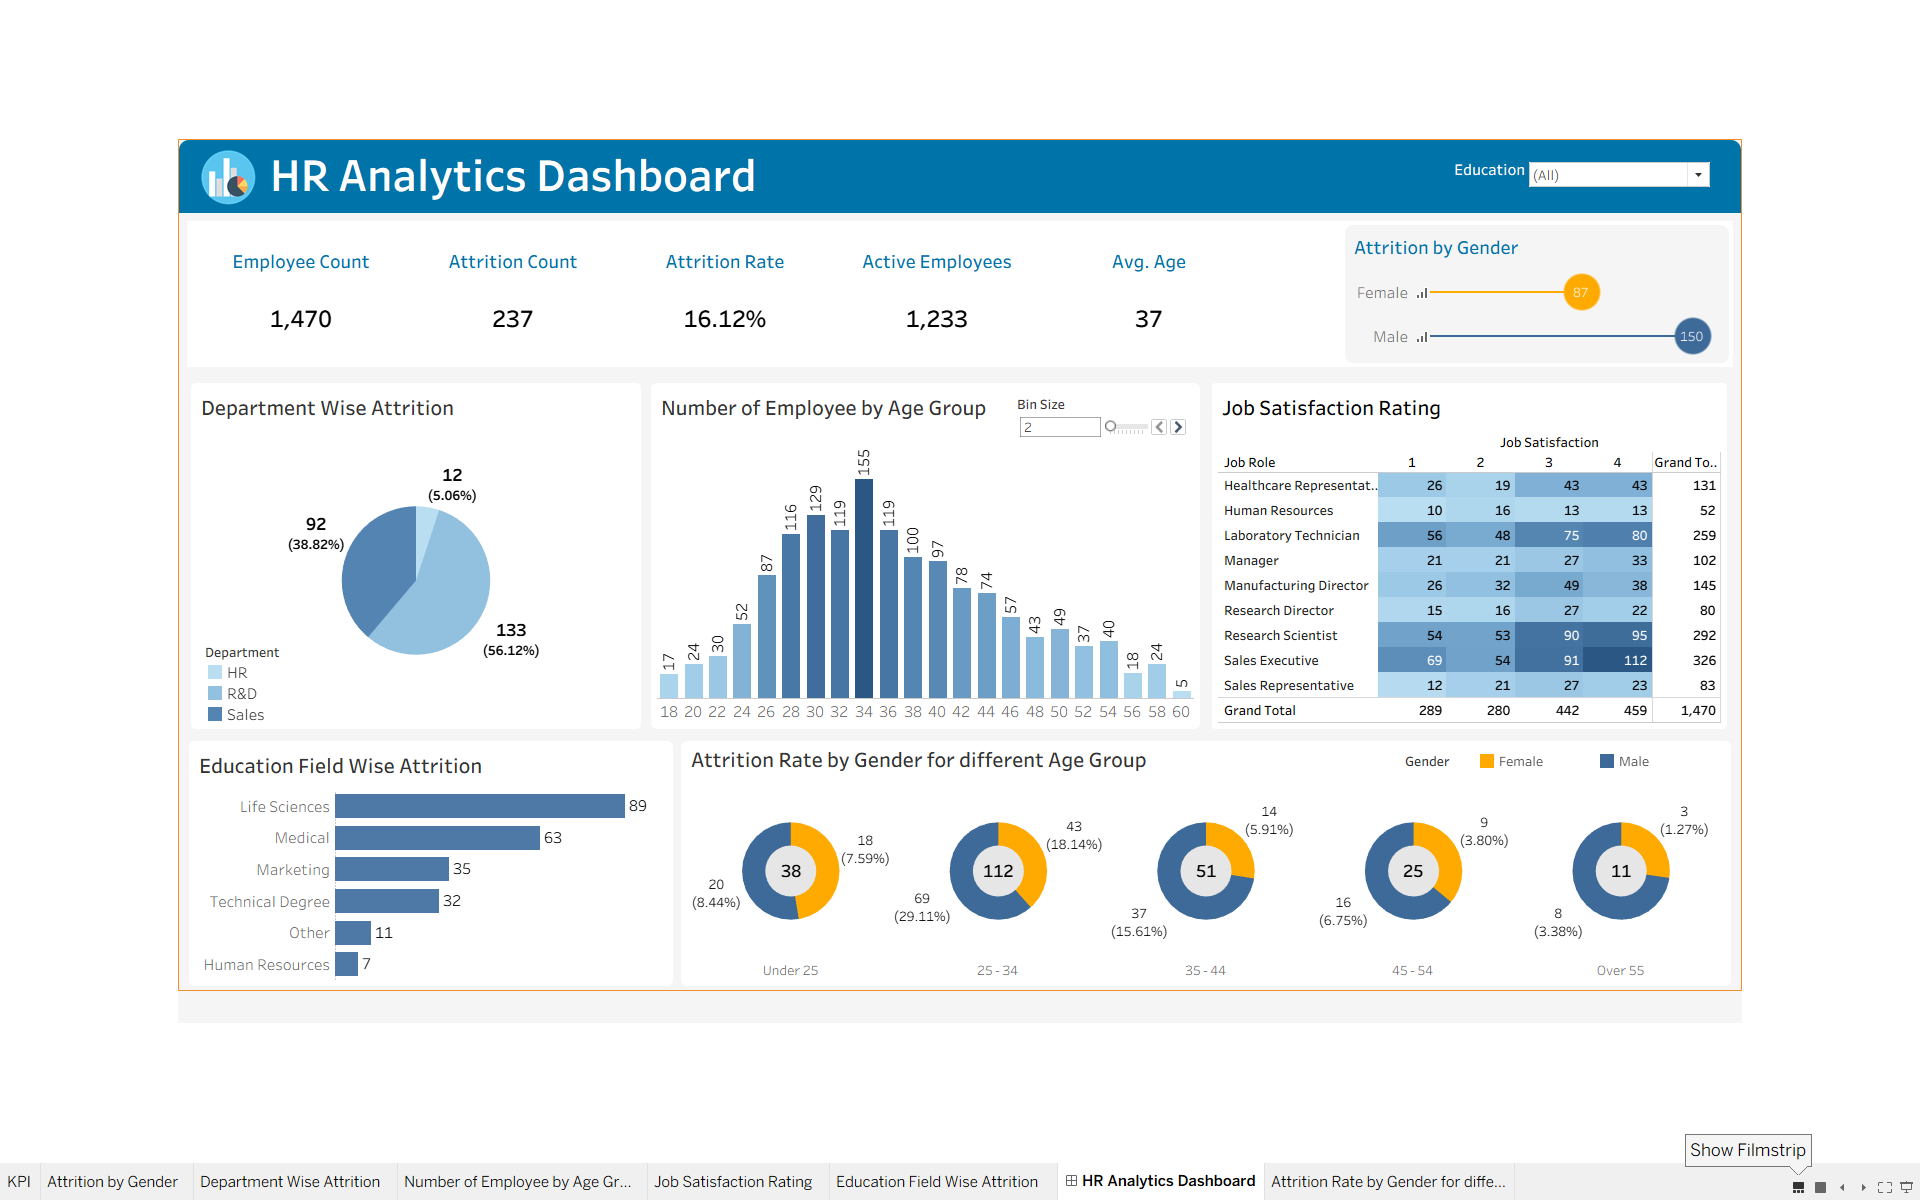
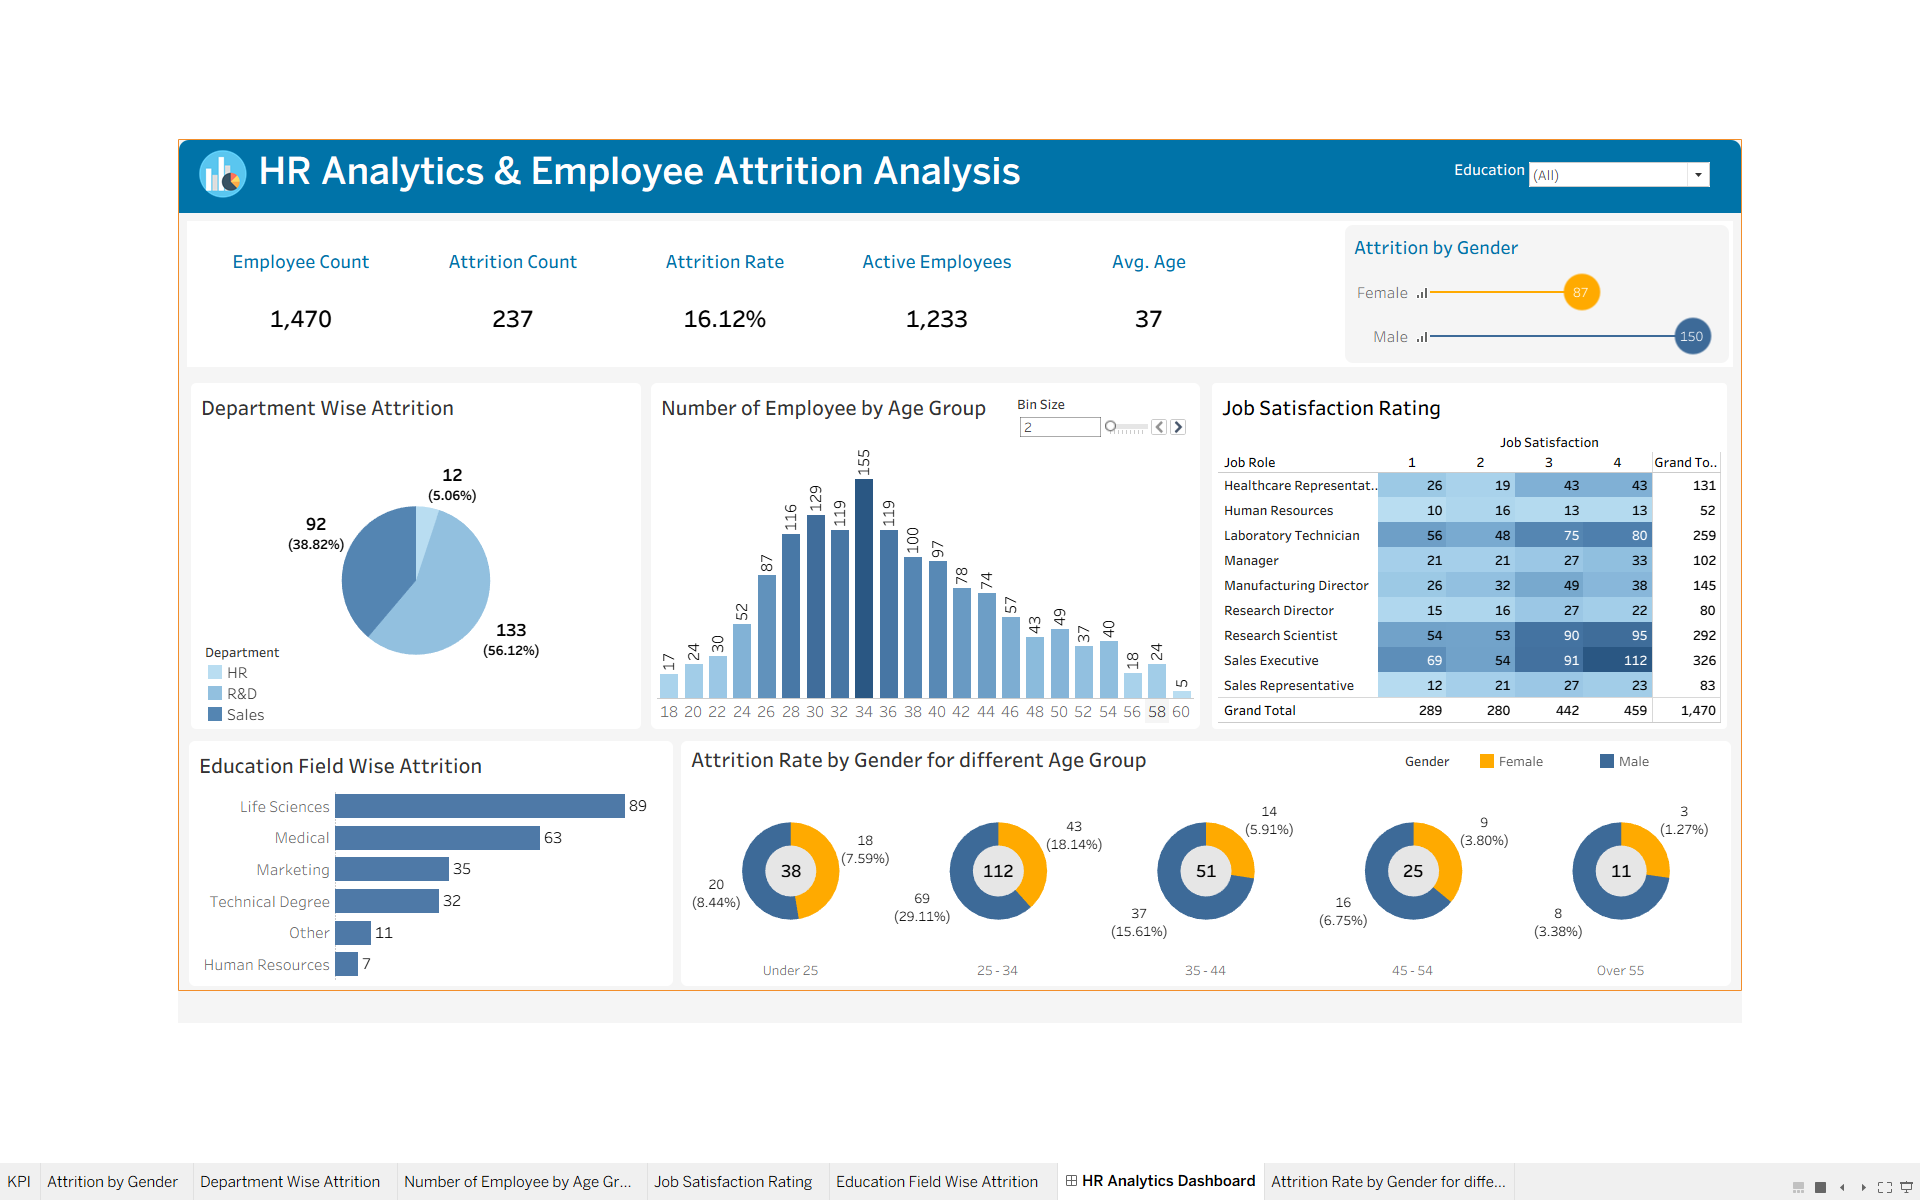
Readme file updated

Changed region(s): [[0.0938, 0.1233, 0.5312, 0.185], [0.875, 0.9558, 0.9375, 0.9867]]

diff --git a/README.md b/README.md
@@ -1,2 +1,103 @@
-# hr-analytics-dashboard-tableau
-HR Analytics Dashboard using Tableau | Analyzing employee attrition, workforce demographics, department-wise employee turnover, job satisfaction, education fields, and age-group trends through interactive visualizations.
+# HR Analytics & Employee Attrition Analysis Dashboard | Tableau
+
+## 🌟 Project Overview
+
+The HR Analytics & Employee Attrition Analysis Dashboard is a Tableau-based data analytics project designed to analyze employee attrition, workforce demographics, department-wise employee turnover, and job satisfaction.
+
+The dashboard transforms raw employee data into an interactive visual report, helping users monitor workforce distribution, identify attrition patterns, understand employee demographics, and evaluate employee satisfaction across different job roles and departments.
+
+The dashboard provides insights into employee count, attrition count, attrition rate, active employees, gender distribution, age groups, education fields, and job satisfaction ratings.
+
+An interactive Education filter allows users to explore employee attrition across different educational backgrounds and understand workforce patterns more effectively.
+
+## 📊 Business Problem
+
+Employee attrition is an important challenge for organizations because high employee turnover can affect workforce stability, recruitment costs, productivity, and overall business performance.
+
+HR teams need to understand why employees leave, which departments experience higher attrition, how employee demographics influence turnover patterns, and whether job satisfaction varies across different roles.
+
+Analyzing raw employee data manually makes it difficult to identify attrition trends, compare employee groups, and understand the factors associated with employee turnover.
+
+This project addresses these challenges by presenting important HR metrics and interactive visualizations in a single Tableau dashboard, supporting better workforce analysis and data-driven HR decisions.
+
+## 🎯 Key Objectives
+
+1. Monitor overall workforce performance using key performance indicators (KPIs).
+2. Analyze total employee count, attrition count, and attrition rate.
+3. Understand the distribution of active and former employees.
+4. Analyze employee attrition across different departments.
+5. Explore employee distribution across different age groups.
+6. Compare attrition patterns between male and female employees.
+7. Identify education fields contributing to higher employee attrition.
+8. Analyze job satisfaction ratings across different job roles.
+9. Understand attrition distribution across gender and age groups.
+10. Enable interactive analysis using Tableau filters.
+
+## 📁 Data Source
+
+**Source:** https://docs.google.com/spreadsheets/d/1-1Ldoe-DwZTL77tdMtRgZAIzeAzs0jh3/edit?gid=2089618187#gid=2089618187
+
+**Sheet Name:** HR data
+
+
+## 📝 Tools and Technologies
+
+1. **Tableau Public / Tableau Desktop** - Dashboard development, data visualization, and interactive reporting.
+2. **Microsoft Excel** - Source dataset containing employee information and HR metrics.
+3. **Calculated Fields** - Creating attrition metrics, employee counts, and percentage calculations.
+4. **Data Visualization** - Pie charts, bar charts, histograms, heatmaps, and donut charts.
+5. **Age Group Analysis** - Creating age bins to analyze employee distribution across different age groups.
+6. **Tableau Filters** - Interactive filtering by Education Field.
+7. **Dashboard Design & Formatting** - Organizing KPIs and visualizations into an interactive HR analytics dashboard.
+
+## 🚀 Key Performance Indicators (KPIs)
+
+The dashboard includes five primary KPIs:
+
+1. **Employee Count:** Total number of employees included in the dataset.
+2. **Attrition Count:** Total number of employees who have left the organization.
+3. **Attrition Rate:** Percentage of employees who left the organization out of the total employee count.
+4. **Active Employees:** Total number of employees currently working in the organization.
+5. **Age:** Represents the employee age metric displayed on the dashboard.
+
+**Overall Workforce Summary:**
+
+- Total Employees: 1,470
+- Attrition Count: 237
+- Attrition Rate: 16.12%
+- Active Employees: 1,233
+
+## 📈 Dashboard Visualizations
+
+![HR Analytics Dashboard](Images/final_dashboard.png)
+
+The HR Analytics Dashboard provides an interactive overview of employee attrition, workforce demographics, departmental performance, and job satisfaction.
+
+**Key Visualizations:**
+
+1. **Attrition by Gender:** Compares the number of employees who left the organization across male and female categories to understand gender-wise attrition distribution.
+
+2. **Department Wise Attrition:** Uses a pie chart to display employee attrition across HR, R&D, and Sales departments, helping identify departments with higher employee turnover.
+
+3. **Number of Employees by Age Group:** Uses a histogram to display employee distribution across different age groups, helping understand workforce demographics and age-wise employee concentration.
+
+4. **Job Satisfaction Rating:** Uses a highlight table to compare job satisfaction ratings across different job roles. The visualization helps identify satisfaction patterns across employees in different positions.
+
+5. **Education Field Wise Attrition:** Compares employee attrition across education fields such as Life Sciences, Medical, Marketing, Technical Degree, Other, and Human Resources.
+
+6. **Attrition Distribution by Gender Across Age Groups:** Uses donut charts to compare male and female attrition counts across different age groups, helping understand demographic patterns in employee turnover.
+
+**Interactive Filters:**
+
+1. **Education:** Filter the dashboard based on employees' educational backgrounds.
+
+2. **Age Bin Size:** Adjust the age group interval in the employee age distribution chart.
+
+
+## ✅ Conclusion
+
+The HR Analytics & Employee Attrition Analysis Dashboard provides an interactive overview of workforce demographics, employee attrition, departmental distribution, and job satisfaction.
+
+By combining KPI monitoring, department-wise attrition analysis, age-group distribution, education field analysis, and job satisfaction comparisons, the dashboard helps users understand employee turnover from multiple perspectives.
+
+The project demonstrates how Tableau can transform raw HR data into meaningful visual insights and support data-driven human resource management decisions.
